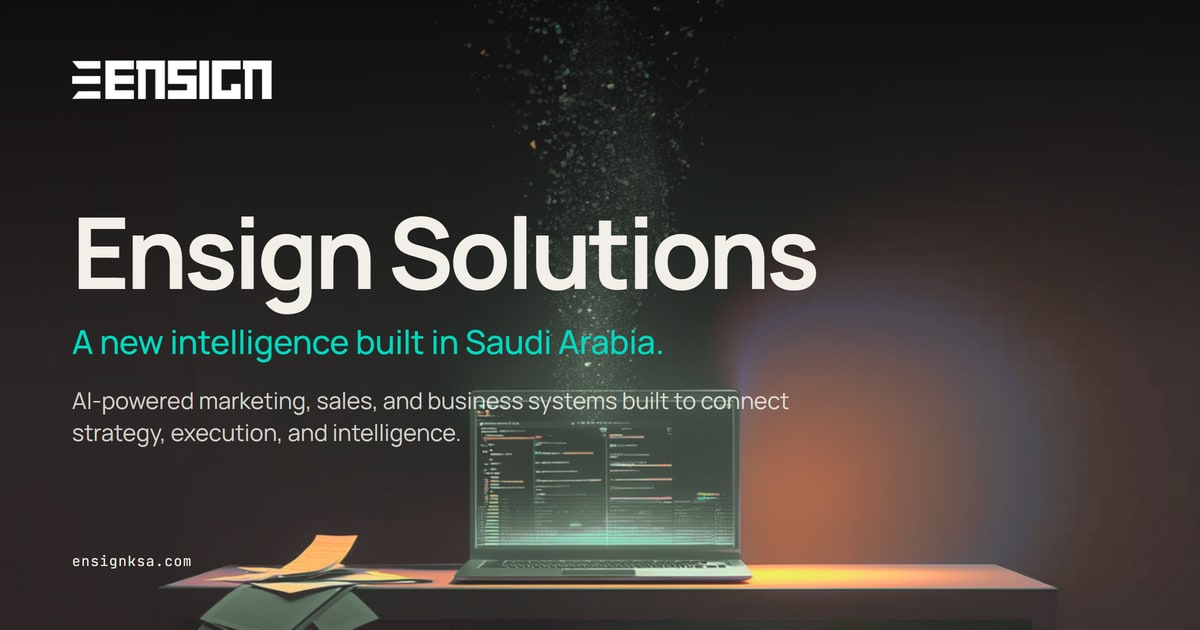
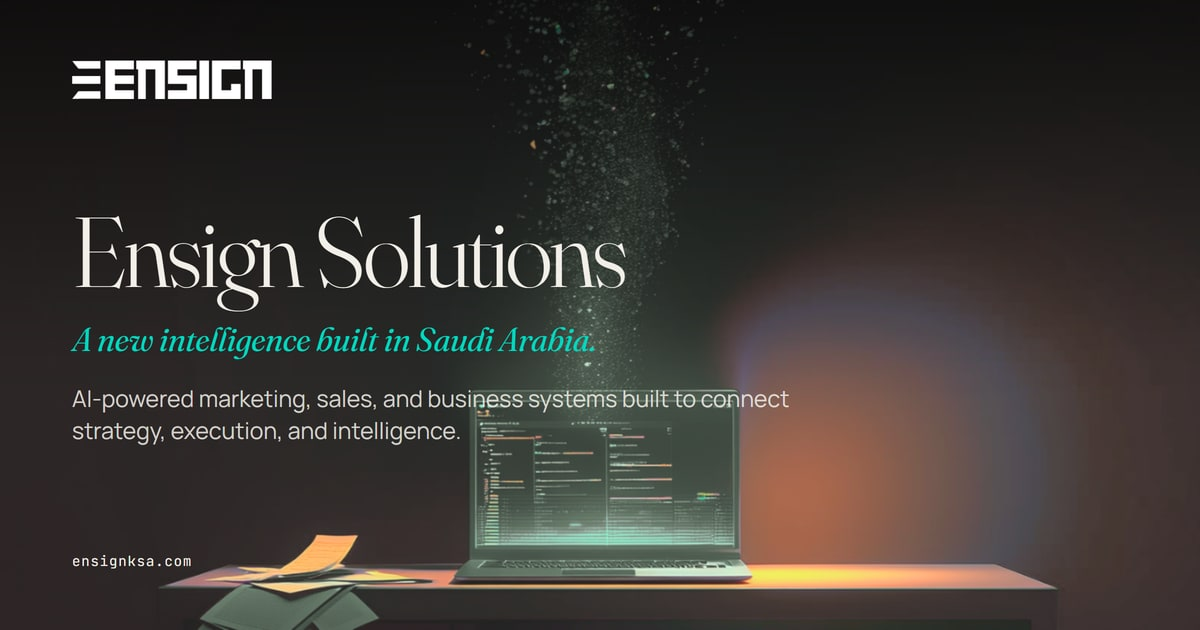
Apply brand fonts to OG image (Fraunces headline + italic Oasis)
Per brand book: display headline = Fraunces 300, italic accent = Fraunces italic 400
in Oasis. Body description stays Manrope, URL stays JetBrains Mono.

Changed region(s): [[0.0617, 0.3317, 0.6783, 0.573], [0.0617, 0.6032, 0.6475, 0.7238]]

diff --git a/tools/og-previews/final.html b/tools/og-previews/final.html
@@ -5,7 +5,7 @@
 <title>Ensign OG — final composite</title>
 <link rel="preconnect" href="https://fonts.googleapis.com">
 <link rel="preconnect" href="https://fonts.gstatic.com" crossorigin>
-<link href="https://fonts.googleapis.com/css2?family=Manrope:wght@300;400;500;600;700;800&family=JetBrains+Mono:wght@400;500&display=swap" rel="stylesheet">
+<link href="https://fonts.googleapis.com/css2?family=Fraunces:ital,opsz,wght@0,9..144,300..700;1,9..144,300..700&family=Manrope:wght@300;400;500;600;700;800&family=JetBrains+Mono:wght@400;500&display=swap" rel="stylesheet">
 <style>
   *{margin:0;padding:0;box-sizing:border-box;}
   html,body{background:#000;}
@@ -36,20 +36,23 @@
   }
   .stack{max-width:820px;}
   .headline{
-    font-family:'Manrope',sans-serif;
-    font-weight:700;
+    font-family:'Fraunces',serif;
+    font-weight:300;
+    font-variation-settings:"SOFT" 50, "opsz" 144;
     font-size:99px;
-    line-height:1;
-    letter-spacing:-.04em;
+    line-height:.95;
+    letter-spacing:-.035em;
     color:#F2EFE8;
     margin-bottom:22px;
   }
   .sub{
-    font-family:'Manrope',sans-serif;
-    font-weight:500;
+    font-family:'Fraunces',serif;
+    font-style:italic;
+    font-weight:400;
+    font-variation-settings:"SOFT" 50, "opsz" 72;
     font-size:33px;
-    line-height:1.18;
-    letter-spacing:-.005em;
+    line-height:1.2;
+    letter-spacing:-.01em;
     color:#00D9C0;
     margin-bottom:22px;
   }
